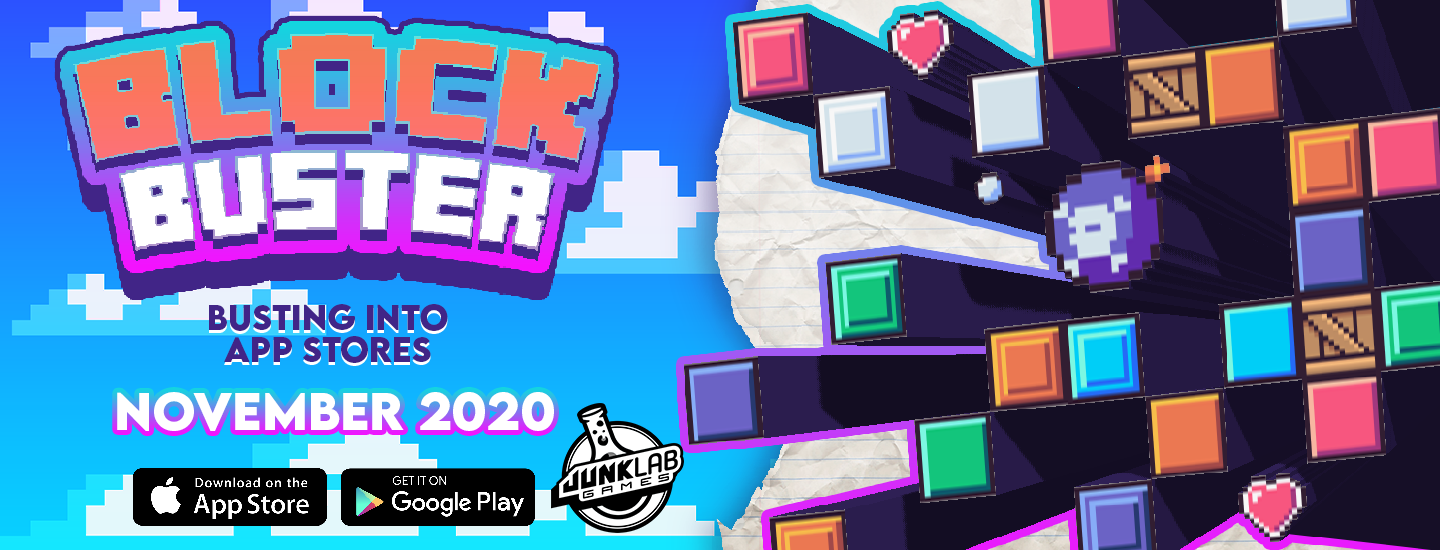
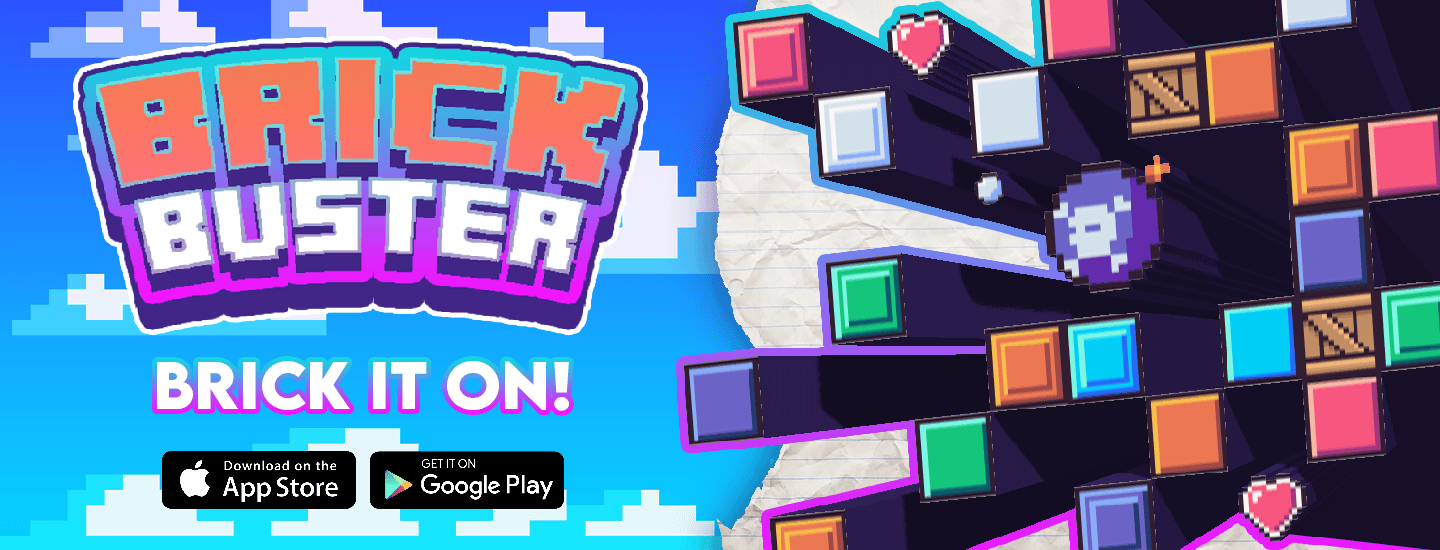
feat(game): name change assets and download link

Changed region(s): [[0.0312, 0.0, 0.5, 0.9891]]

diff --git a/src/components/Games.js b/src/components/Games.js
@@ -1,19 +1,17 @@
 import React from 'react';
 import Img from 'gatsby-image';
+import { FontAwesomeIcon } from '@fortawesome/react-fontawesome';
 
 export default function Games({ data }) {
   return (
     <section className="max-w-screen-lg mx-auto px-4 md:px-0 mt-4 text-center md:mt-24">
       <h2 className="text-4xl mb-2 md:text-5xl">Games</h2>
-      <p className="mb-4">
-        We specialise in fun, casual, and hyper-casual games on mobile and the web browser. Here are
-        some of our titles.
-      </p>
+      <p className="mb-4">We specialise in fun, casual, and hyper-casual games on mobile and the web browser. Here are some of our titles.</p>
       <div className="flex justify-center items-center md:items-start flex-col md:flex-row">
         {data.allFile.edges.map(({ node }, index) => (
           <div key={index} className="mr-0 md:mr-4 w-article last:mr-0">
             <Img fluid={node.childImageSharp.fluid} />
-            {/* <div className="flex flex-col md:flex-row">{index === 0 && <Buttons />}</div> */}
+            <div className="flex flex-col md:flex-row">{index === 0 && <Buttons />}</div>
           </div>
         ))}
       </div>
@@ -21,15 +19,15 @@ export default function Games({ data }) {
   );
 }
 
-// const Buttons = () => (
-//   <React.Fragment>
-//     <button className="btn btn-primary mt-4 mr-4 w-full hover-transform-scale">
-//       <FontAwesomeIcon className="mr-1" icon="save" />
-//       Download
-//     </button>
-//     <button className="btn btn-primary mt-4 w-full hover-transform-scale">
-//       <FontAwesomeIcon className="mr-1" icon="gamepad" />
-//       Play
-//     </button>
-//   </React.Fragment>
-// );
+const Buttons = () => (
+  <React.Fragment>
+    <a href="https://apps.apple.com/us/app/brick-buster/id1543321783" className="btn btn-primary mt-4 mr-4 w-full hover-transform-scale">
+      <FontAwesomeIcon className="mr-1" icon="save" />
+      Download
+    </a>
+    <a href="https://apps.apple.com/us/app/brick-buster/id1543321783" className="btn btn-primary mt-4 w-full hover-transform-scale">
+      <FontAwesomeIcon className="mr-1" icon="gamepad" />
+      Play
+    </a>
+  </React.Fragment>
+);

diff --git a/src/components/Footer.js b/src/components/Footer.js
@@ -9,23 +9,19 @@ export default function Footer() {
           <img src={logoSmall} alt="Junklab games logo" className="mr-4" />
           <span>
             <h4>Games</h4>
-            <span>Block Buster</span>
+            <span>Brick Buster</span>
           </span>
         </span>
         <span className="flex-1 py-4 md:py-20 px-4 first:pl-0">
           <h4>About</h4>
           <p>
-            We specialise in fun, casual, and hyper-casual mobile games for mobile devices and web
-            browsers. We're an indie game studio who loves to create unique experiences on mobile
-            and web browsers.
+            We specialise in fun, casual, and hyper-casual mobile games for mobile devices and web browsers. We're an indie game studio who loves to create unique experiences on mobile and web
+            browsers.
           </p>
         </span>
         <span className="flex-1 py-4 md:py-20 px-4 first:pl-0">
           <h4>Contact</h4>
-          <p>
-            We’d love to hear from you! Drop us an email or catch us on any of our social media
-            platforms.
-          </p>
+          <p>We’d love to hear from you! Drop us an email or catch us on any of our social media platforms.</p>
           <a href="mailto:hello@junklabgame.com">hello@junklabgames.com</a>
         </span>
         <span className="flex-1 py-4 md:py-20 px-4 first:pl-0">

diff --git a/src/components/News.js b/src/components/News.js
@@ -2,27 +2,20 @@ import React from 'react';
 
 import Post from './Post';
 
+import { FontAwesomeIcon } from '@fortawesome/react-fontawesome';
+
 export default function News({ data }) {
   return (
     <section className="text-center max-w-screen-lg px-4 md:px-0 mx-auto mt-24">
       <h2 className="text-4xl mb-2 md:text-5xl">News</h2>
-      <p className="mb-4">
-        The latest and greatest news and development progress from Junklab Games. Follow our social
-        accounts to keep up to date with all the latest updates.
-      </p>
+      <p className="mb-4">The latest and greatest news and development progress from Junklab Games. Follow our social accounts to keep up to date with all the latest updates.</p>
       <article className="flex justify-center flex-col items-center md:flex-row">
         {data.allMarkdownRemark.edges.map((post) => {
           const { title, date, path, featuredImage } = post.node.frontmatter;
 
           return (
             <div className="w-article">
-              <Post
-                title={title}
-                date={date}
-                key={`${date}__${title}`}
-                path={path}
-                featuredImage={featuredImage}
-              />
+              <Post title={title} date={date} key={`${date}__${title}`} path={path} featuredImage={featuredImage} />
             </div>
           );
         })}

diff --git a/src/components/Hero.js b/src/components/Hero.js
@@ -9,11 +9,9 @@ export default function Hero({ data }) {
     <StaticQuery
       query={query}
       render={(data) => (
-        <Img
-          fluid={data.file.childImageSharp.fluid}
-          alt="Block Buster promotional banner"
-          fadeIn={true}
-        />
+        <a href="https://apps.apple.com/us/app/brick-buster/id1543321783">
+          <Img fluid={data.file.childImageSharp.fluid} alt="Block Buster promotional banner" fadeIn={true} />
+        </a>
       )}
     />
   );

diff --git a/src/pages/blog.js b/src/pages/blog.js
@@ -1,0 +1,7 @@
+import React from 'react';
+
+import Layout from '../layout/Content';
+
+export default function () {
+  return <Layout>blog it up bloggy boy</Layout>;
+}
